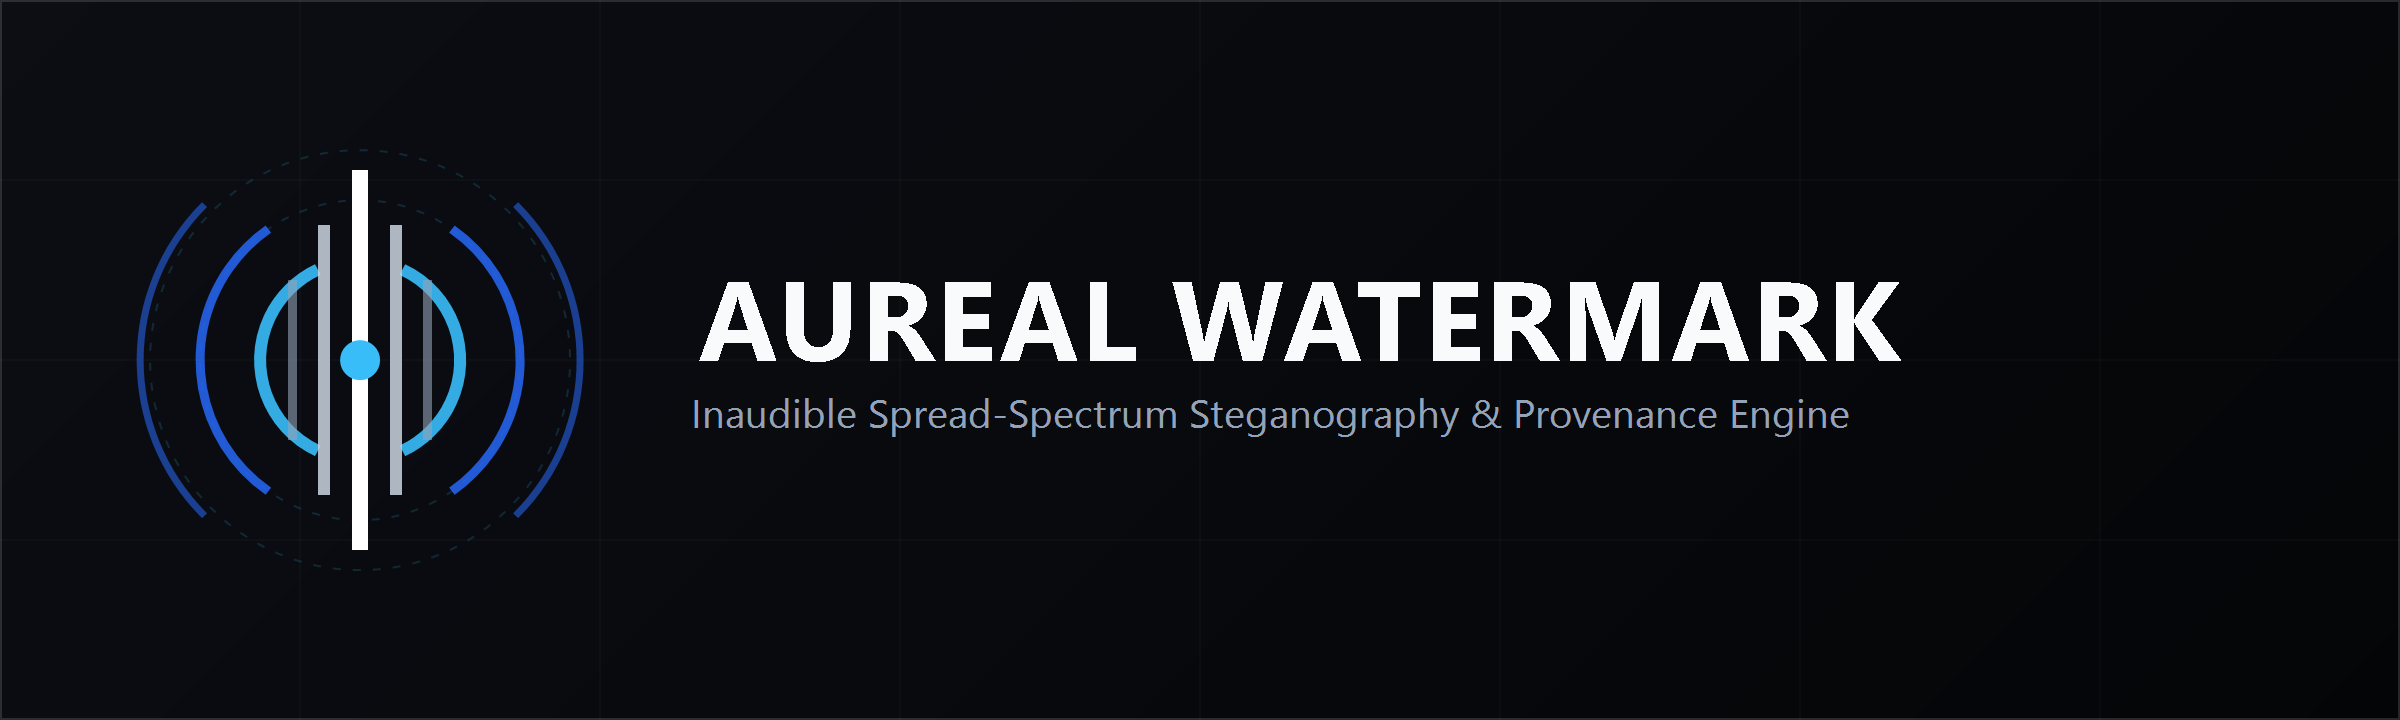
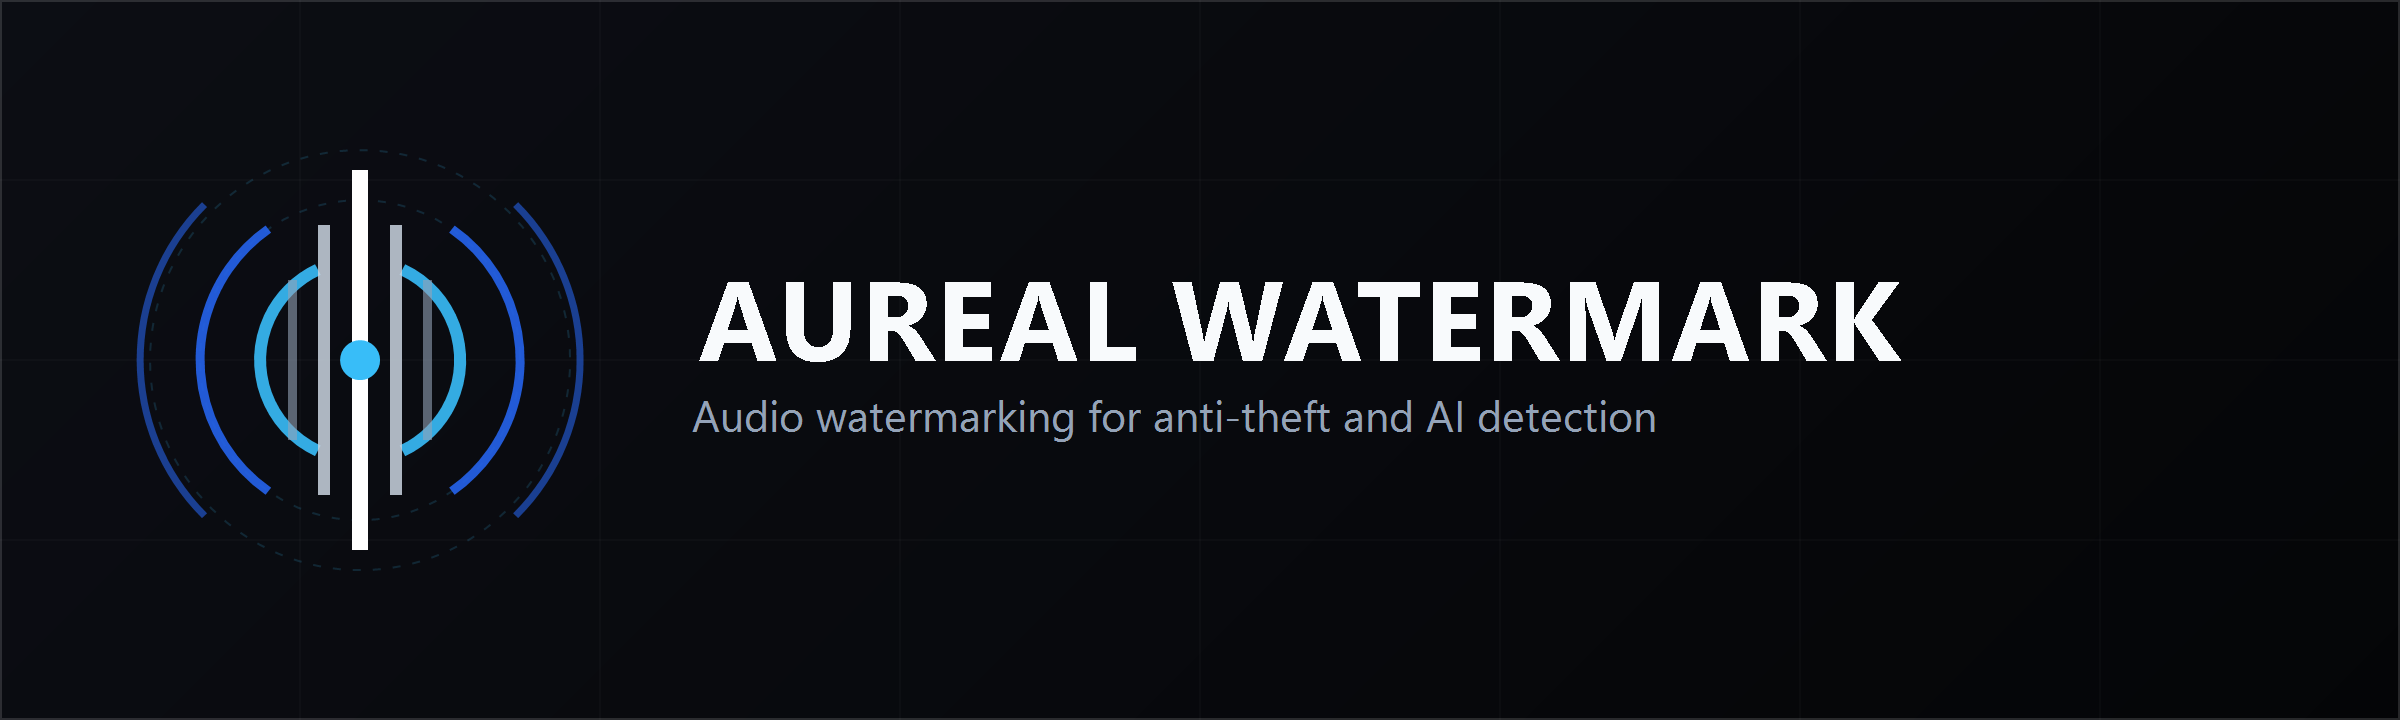
chore: update project subtitle to 'Audio watermarking for anti-theft and AI detection'

Changed region(s): [[0.2812, 0.55, 0.7812, 0.6111]]

diff --git a/demo/index.html b/demo/index.html
@@ -299,7 +299,7 @@
     <img src="./assets/logo.svg" alt="Aureal Logo" style="width: 44px; height: 44px; border-radius: 10px; flex-shrink: 0;" />
     <div>
       <h1 style="margin-bottom: 0.15rem; font-size: 1.35rem;">Aureal Watermark</h1>
-      <p style="font-size: 0.8rem;">Inaudible spread-spectrum audio provenance and attribution studio.</p>
+      <p style="font-size: 0.8rem;">Audio watermarking for anti-theft and AI detection.</p>
     </div>
   </div>
 

diff --git a/demo/verifier.html b/demo/verifier.html
@@ -299,7 +299,7 @@
     <img src="./assets/logo.svg" alt="Aureal Logo" style="width: 44px; height: 44px; border-radius: 10px; flex-shrink: 0;" />
     <div>
       <h1 style="margin-bottom: 0.15rem; font-size: 1.35rem;">Aureal Watermark</h1>
-      <p style="font-size: 0.8rem;">Inaudible spread-spectrum audio provenance and attribution studio.</p>
+      <p style="font-size: 0.8rem;">Audio watermarking for anti-theft and AI detection.</p>
     </div>
   </div>
 

diff --git a/index.html b/index.html
@@ -299,7 +299,7 @@
     <img src="./assets/logo.svg" alt="Aureal Logo" style="width: 44px; height: 44px; border-radius: 10px; flex-shrink: 0;" />
     <div>
       <h1 style="margin-bottom: 0.15rem; font-size: 1.35rem;">Aureal Watermark</h1>
-      <p style="font-size: 0.8rem;">Inaudible spread-spectrum audio provenance and attribution studio.</p>
+      <p style="font-size: 0.8rem;">Audio watermarking for anti-theft and AI detection.</p>
     </div>
   </div>
 
